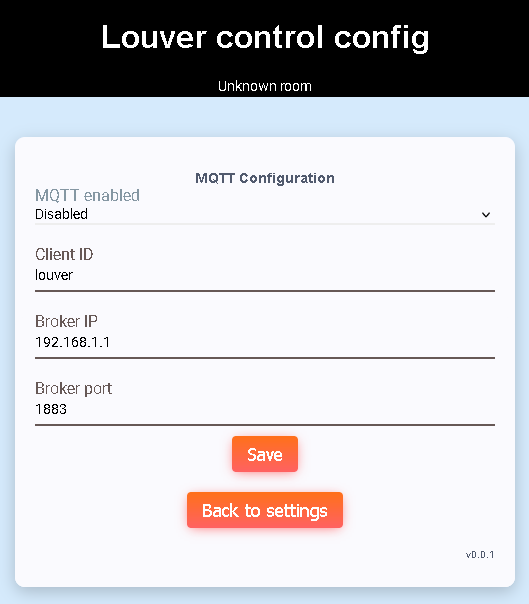
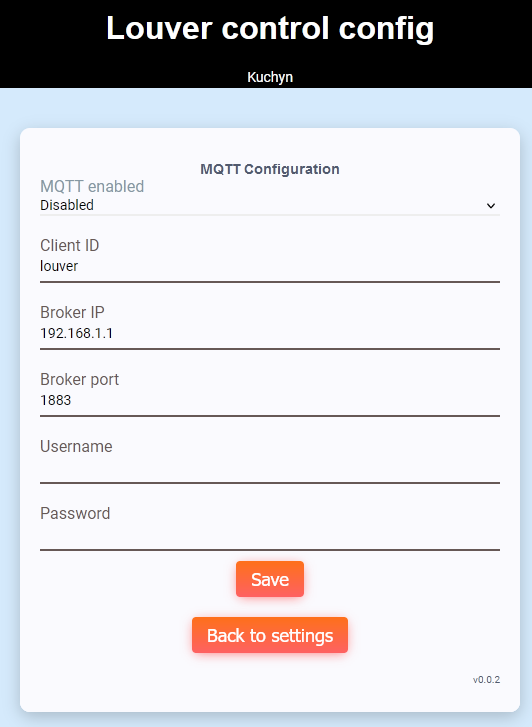
Documentation update

Changed region(s): [[0.0, 0.0, 1.0, 0.9834], [0.3629, 0.2682, 0.6352, 0.3278]]

diff --git a/doc/power_meas_config.md b/doc/power_meas_config.md
@@ -15,7 +15,7 @@ Full open movement condition. Full open movement is stopped when power condition
 is satisfied.
 
 Format (JSON):
-```
+```json
 {"index":0,"threshold":0.00,"comparator":"==","duration_milli":2000}
 ```
 
@@ -36,7 +36,7 @@ Full close movement condition. Full close movement is stopped when power conditi
 is satisfied.
 
 Format (JSON):
-```
+```json
 {"index":0,"threshold":0.00,"comparator":"==","duration_milli":2000}
 ```
 
@@ -56,7 +56,7 @@ Where:
 BL0939 driver configuration string.
 
 Format (JSON):
-```
+```json
 {"serial":1,"rx_gpio":26,"tx_gpio":25,"refresh_period_milli":500}
 ```
 
@@ -73,7 +73,7 @@ ADE7953 driver configuration string. Two modes are supported (specified by "mode
 
 ### I2C mode
 Config format (JSON):
-```
+```json
 {"mode":"i2c","i2c":0,"sda_gpio":26,"scl_gpio":25,"reset_gpio":33,"refresh_period_milli":500}
 ```
 
@@ -87,7 +87,7 @@ Where:
  
 ### UART mode (untested)
 Config format (JSON):
-```
+```json
 {"mode":"uart","serial":0,"rx_gpio":26,"tx_gpio":25,"reset_gpio":33,"refresh_period_milli":500}
 ```
 

diff --git a/doc/quick_setup.md b/doc/quick_setup.md
@@ -73,12 +73,12 @@ You can enable stop movement conditions when your module supports power measurem
 ## Power measurement config
 Power measurement can be used to simulate end switches and stop long movements.
 
-Example for Sonoff DUAL R3 - movement up (stops when Power 1 is below 20W for 1500ms):
+Example for Sonoff DUAL R3 (select BL0939 driver) - movement up (stops when Power 1 is below 20W for 1500ms):
 ```json
 {"index":3,"threshold":20.00,"comparator":">","duration_milli":1500}
 ```
 
-Example for Sonoff DUAL R3 - movement down(stops when Power 2 is below 20W for 1500ms):
+Example for Sonoff DUAL R3 (select BL0939 driver) - movement down (stops when Power 2 is below 20W for 1500ms):
 ```json
 {"index":4,"threshold":20.00,"comparator":">","duration_milli":1500}
 ```

diff --git a/doc/module_config.md b/doc/module_config.md
@@ -20,7 +20,7 @@ Log levels:
 Default log level is set to 2 for all modules.
 
 Configuration string format (JSON):
-```
+```json
 {"module1":level, "module2":level}
 ``` 
 
@@ -38,7 +38,7 @@ Supported modules:
  - PowerMeas
  
 Example (sets default log level to debug, BL0939 log level to verbose):
-```
+```json
 {"*":3,"BL0939":4}
 ```
 

diff --git a/doc/mqtt_config.md b/doc/mqtt_config.md
@@ -15,4 +15,10 @@ MQTT broker IP
 ## Broker port
 MQTT broker port
 
+## Username
+Username to be used to connect to MQTT broker
+
+## Password
+Password to be used to connect to MQTT broker
+
 [Main page](../README.md)
